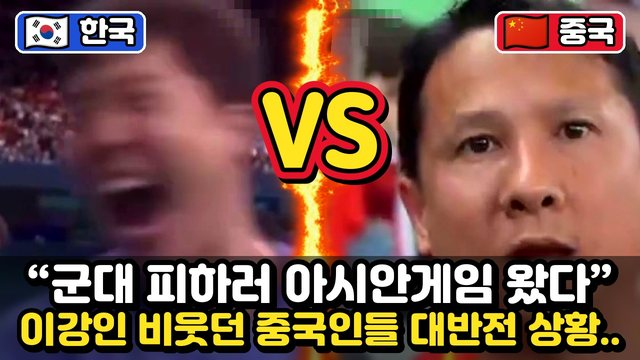
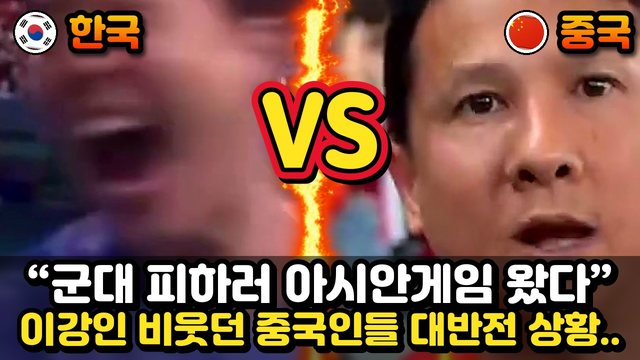
썸네일 V3.1 2차 수정: 불꽃 끊김·흰 원·VS 라벨·잘린 스티커 제거, 군중 빨간 원, 선명화

diff --git a/국뽕-유튜브-리서치-허브-20261108/thumb-edit-studio-20261123/thumb-rules-v3/index.html b/국뽕-유튜브-리서치-허브-20261108/thumb-edit-studio-20261123/thumb-rules-v3/index.html
@@ -27,9 +27,9 @@ ol li,ul li{margin:4px 0}.grid{display:grid;grid-template-columns:repeat(2,minma
 답을 바로 말하지 않는다: ‘~난리난 이유’, ‘~심각한 상황’, ‘~부르는 이유’, ‘왜 한국처럼 못하나?’, “맵다! 근데...”처럼 이유·상황·?·..·...로 끊는다.
 숫자는 한글 단위: 4000 → 4천, 450000 → 45만, 1600 → 1천6백. 4000·323처럼 숫자로 적지 않고 반올림하지 않는다.
 “큰따옴표”는 영상 속 실제 발언만. 제목에는 이모지(🔥😱😭🇰🇷)를 항상 넣는다.</pre></div>
-<h2>🖼 화면 구성 — 꽉 차게</h2><ol><li>🧱 <mark><b>레이어 4~6개</b></mark>: 배경 사진 + 인셋 2장(하늘색·흰·빨강 테두리) + 국기·VS + 말풍선 (?!!)·(헐...)·(....)·똑똑히 보세요 + 빨간 화살표·노란 동그라미 + 빨간 태그 “해외 반응”.</li><li>🌄 배경은 <b>화면 끝까지</b>. 사진이 짧으면 같은 사진을 흐리게·어둡게 키워 뒤를 채운다.</li><li>🌫 글자 뒤가 복잡하면 <mark>그 띠만 블러 + 어둡게</mark>.</li><li>🙂 <span class="red">얼굴은 글자와 절대 겹치지 않는다.</span> 얼굴은 위·아래 글자 사이 가운데 띠 안에 통째로. 눈만 보이는 과한 클로즈업·너무 작은 얼굴 금지 — <b>띠 높이의 40~80%</b>.</li><li>📸 사진 우선순위: 놀람 2 › 소리침·충격·눈물·경악·공포 › 깔깔 웃음 / 우르르 인파 / 서양인·흑인·아나운서·기자·뉴스 화면. 영상에 박힌 자막은 잘라낸다.</li><li>🎯 <mark><b>인셋 얼굴은 칸 정중앙</b></mark>. 한쪽으로 쏠리면 다시 만든다. 얼굴이 원본 가장자리면 더 클로즈업해서라도 가운데로. 한 사람을 쓸 땐 <b>그 사람 얼굴만</b>(어깨 위).</li><li>🏳 <mark>국기는 동그란 배지</mark>(흰 테+검정 외곽선), 인셋 테두리와 30px 이상 띄운다. 흰 사각형이 보이면 <b>원본에 박힌 스티커·자막</b>인지 먼저 확인해 잘라낸다.</li><li>⭕ 원형 인셋 OK — 네모만 고집하지 않는다. <b>원 뒤에 황금 불꽃 아치</b> = 사람 뒤에서 불 나오는 효과.</li><li>🔥 디자인 요소(폴더 맨 위 파일만, xxxx 하위 폴더 제외): 불꽃 아치(원 뒤) · 불꽃 띠(아래 글자 뒤) · 번개/불꽃 줄기(VS 분할선) · <b>NO!! 노우</b>(거절·반대 문맥일 때만) · ㅋㅋ(웃음 문맥).</li><li>🚫 놀란 표정을 <b>새로 만들어 넣지 않는다</b>(실존 인물 표정 조작 금지). 영상 속 실제 놀람·소리침 프레임만.</li><li>🧽 K PRIDE 등 로고·원본 스티커·박힌 자막은 잘라낸다.</li><li>🔤 폰트: <mark>여기어때 잘난체 2</mark>만. 검정 외곽선 = 글자 크기 1/8 + 그림자. 색 노랑 #FFE51F · 흰 #FFFFFF · 하늘 #3DE6FF · 태그 빨강 #E8132B.</li></ol>
+<h2>🖼 화면 구성 — 꽉 차게</h2><ol><li>🧱 <mark><b>레이어 4~6개</b></mark>: 배경 사진 + 인셋 2장(하늘색·흰·빨강 테두리) + 국기·VS + 말풍선 (?!!)·(헐...)·(....)·똑똑히 보세요 + 빨간 화살표·노란 동그라미 + 빨간 태그 “해외 반응”.</li><li>🌄 배경은 <b>화면 끝까지</b>. 사진이 짧으면 같은 사진을 흐리게·어둡게 키워 뒤를 채운다.</li><li>🌫 글자 뒤가 복잡하면 <mark>그 띠만 블러 + 어둡게</mark>.</li><li>🙂 <span class="red">얼굴은 글자와 절대 겹치지 않는다.</span> 얼굴은 위·아래 글자 사이 가운데 띠 안에 통째로. 눈만 보이는 과한 클로즈업·너무 작은 얼굴 금지 — <b>띠 높이의 40~80%</b>.</li><li>📸 사진 우선순위: 놀람 2 › 소리침·충격·눈물·경악·공포 › 깔깔 웃음 / 우르르 인파 / 서양인·흑인·아나운서·기자·뉴스 화면. 영상에 박힌 자막은 잘라낸다.</li><li>🎯 <mark><b>인셋 얼굴은 칸 정중앙</b></mark>. 한쪽으로 쏠리면 다시 만든다. 얼굴이 원본 가장자리면 더 클로즈업해서라도 가운데로. 한 사람을 쓸 땐 <b>그 사람 얼굴만</b>(어깨 위).</li><li>🏳 <mark>국기는 동그란 배지</mark>(흰 테+검정 외곽선), 인셋 테두리와 30px 이상 띄운다. 흰 사각형이 보이면 <b>원본에 박힌 스티커·자막</b>인지 먼저 확인해 잘라낸다.</li><li>⭕ 원형 인셋 OK — 네모만 고집하지 않는다. <b>원 뒤에 황금 불꽃 아치</b> = 사람 뒤에서 불 나오는 효과.</li><li>🔥 디자인 요소(폴더 맨 위 파일만, xxxx 하위 폴더 제외): 불꽃 아치(원 뒤) · 불꽃 띠(아래 글자 뒤) · 번개/불꽃 줄기(VS 분할선) · <b>NO!! 노우</b>(거절·반대 문맥일 때만) · ㅋㅋ(웃음 문맥).</li><li>🚫 놀란 표정을 <b>새로 만들어 넣지 않는다</b>(실존 인물 표정 조작 금지). 영상 속 실제 놀람·소리침 프레임만.</li><li>🧽 K PRIDE 등 로고·원본 스티커·박힌 자막·<b>모자이크·화면 맨 위 색 줄</b>은 잘라낸다. <span class="red">잘린 스티커 조각이 남으면 완성도 탈락.</span></li><li>⭕ <span class="red">흰 동그라미 테두리 금지</span> — 원형 테두리는 <mark>빨강</mark> 또는 <mark>노랑</mark>만.</li><li>🔥 <mark><b>불꽃은 끊기지 않게</b></mark>: 원 뒤 불꽃은 화면 맨 아래까지 늘려 아래 불꽃 띠와 이어지게. 몸이 아래까지 보이는 사람은 <b>몸까지 보이게 당기고 양옆에서 솟는 불꽃</b>.</li><li>🏷 VS 나라 라벨은 <b>상자·테두리 없이</b> 동그란 국기 + <span style="background:linear-gradient(#F9DF00,#FC8701,#FD0C01);-webkit-background-clip:text;color:transparent;font-weight:900">NO!! 색 그라데이션</span> 글자.</li><li>❓ 군중 사진엔 <span class="red">빨간 동그라미</span> + 노랑 <b>?</b> / 놀란 얼굴 옆엔 <b>?!</b></li><li>🔍 저해상도 원본은 자동 선명화. 원본 480p 이하면 AI 업스케일 필요.</li><li>🔤 폰트: <mark>여기어때 잘난체 2</mark>만. 검정 외곽선 = 글자 크기 1/8 + 그림자. 색 노랑 #FFE51F · 흰 #FFFFFF · 하늘 #3DE6FF · 태그 빨강 #E8132B.</li></ol>
 <h2>🎨 스타일 (좋썸넬 분석 + 사용자 지정 2종)</h2><div class="sty"><div><b>A 뉴스 3줄형</b><br>위 2~3줄(첫 줄 흰 “인용”, 나머지 노랑) + 가운데 사진 띠(인셋 2·국기·화살표) + 아래 1줄 <span class="cy">하늘색 질문·이유</span>. 조회수 상위 다수.</div><div><b>B 리액션 인셋형</b><br>위 2줄 + 큰 현장 사진(군중·제품) 위에 반응 얼굴 인셋 2장 + 아래 <span class="cy">“인용…”</span>.</div><div><b>C 임팩트 2줄형</b><br>사진 한 장 크게 + 아래 2줄 아주 크게(흰 “인용” + 노랑 이유..) + 원형 인셋 1개 + 빨간 태그.</div><div style="border:2px solid #FFE51F"><b>🆕 B′ 번개 VS 세로 분할형</b><br>화면 반반: 왼쪽 🇰🇷 한국 / 오른쪽 상대국 얼굴. 가운데 <mark>노란 번개 또는 불꽃 줄기 + 큰 VS</mark>. 위 양끝 국기+나라 라벨(한국 파랑·상대 빨강). 아래 2줄 흰 “인용” + 노랑 이유..</div><div style="border:2px solid #FF2B2B"><b>🆕 C′ 불꽃 원형 충격형</b><br>큰 장면 전체 + 오른쪽 위 <mark>원형 놀란 얼굴 + 뒤에 불꽃 아치</mark> + 노랑 ?! + 왼쪽 위 빨간 “해외 반응” + 아래 <b>불꽃 띠</b> 위 2줄(흰 “인용” + 하늘색 이유..). 거절 문맥이면 NO!!.</div></div><p>👉 <mark><b>한 영상당 3장</b></mark>: A(또는 B·C) 1장 + B′ 1장 + C′ 1장.</p>
-<h2>🧪 시범 10편 × 3버전 (V3.1 · 우리 영상 캡처로 제작)</h2><p>🔧 <b>V3에서 고친 것</b>: <span class="red">중국 외국인 → 중국인/외국인</span> · 태그 “해외 반응”만 · 인셋 얼굴 정중앙 · 양궁 코치 얼굴만 · 국기 동그란 배지 · 관중 사진에 박힌 흰 스티커 제거.</p><p>⚠ 07 페이커 인용은 자동번역 자막 — 공개 전 원음 대조.</p><div class="grid" style="grid-template-columns:repeat(3,minmax(0,1fr))"><figure><img loading="lazy" src="samples31/v31_01_a.jpg" alt="01 a"><figcaption><b>01 · V5_EP01_핵잠수함 · A 수정본</b><br>“핵잠수함 연료 쓰게 해달라” / 미국 앞에서 꺼낸 한국 한마디.. / 중국인들 술렁인 상황 / 다음 날 중국 외교부까지 나선 이유?</figcaption></figure>
+<h2>🧪 시범 10편 × 3버전 (V3.1 · 우리 영상 캡처로 제작)</h2><p>🔧 <b>2차 수정(11-24 밤)</b>: 불꽃 아치 화면 아래까지 · 흰 원 → 빨강/노랑 · VS 라벨 NO!! 그라데이션 · 잘린 스티커·모자이크·초록 줄 제거 · 군중 빨간 원+? · 저해상도 선명화.</p><p>🔧 <b>V3에서 고친 것</b>: <span class="red">중국 외국인 → 중국인/외국인</span> · 태그 “해외 반응”만 · 인셋 얼굴 정중앙 · 양궁 코치 얼굴만 · 국기 동그란 배지 · 관중 사진에 박힌 흰 스티커 제거.</p><p>⚠ 07 페이커 인용은 자동번역 자막 — 공개 전 원음 대조.</p><div class="grid" style="grid-template-columns:repeat(3,minmax(0,1fr))"><figure><img loading="lazy" src="samples31/v31_01_a.jpg" alt="01 a"><figcaption><b>01 · V5_EP01_핵잠수함 · A 수정본</b><br>“핵잠수함 연료 쓰게 해달라” / 미국 앞에서 꺼낸 한국 한마디.. / 중국인들 술렁인 상황 / 다음 날 중국 외교부까지 나선 이유?</figcaption></figure>
 <figure><img loading="lazy" src="samples31/v31_01_b.jpg" alt="01 b"><figcaption><b>01 · V5_EP01_핵잠수함 · B′ 번개 VS 분할</b><br>(한국 VS 미국) “핵잠수함 연료 쓰게 해달라” / 중국 외교부까지 나선 이유?</figcaption></figure>
 <figure><img loading="lazy" src="samples31/v31_01_c.jpg" alt="01 c"><figcaption><b>01 · V5_EP01_핵잠수함 · C′ 불꽃 원형 충격</b><br>“핵잠수함 연료 쓰게 해달라” / 한국 한마디에 중국인들 술렁인 이유..</figcaption></figure>
 <figure><img loading="lazy" src="samples31/v31_02_a.jpg" alt="02 a"><figcaption><b>02 · EP07_박지성 · A 수정본</b><br>“메시 막을 유일한 선수” / 퍼거슨이 한국 선수를 이렇게 부른 이유..</figcaption></figure>
